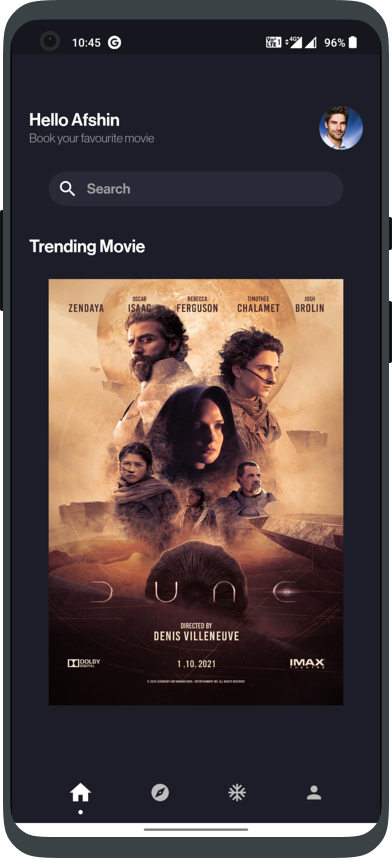
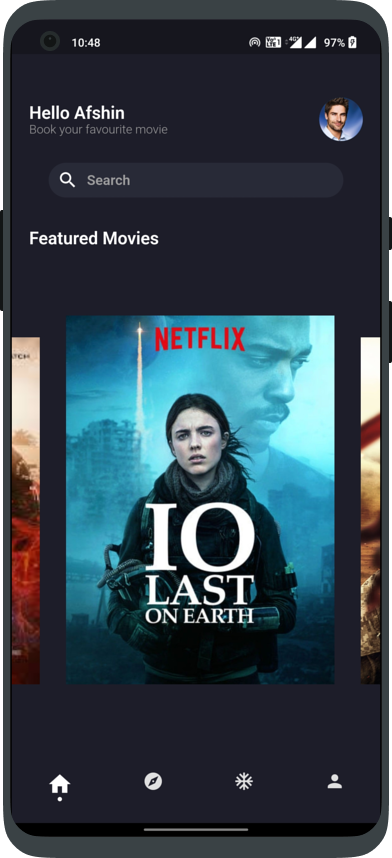
add screenshots

diff --git a/lib/screen/home.dart b/lib/screen/home.dart
@@ -13,104 +13,106 @@ class _HomeState extends State<Home> {
   Widget build(BuildContext context) {
     return Scaffold(
       backgroundColor: const Color(0xFF1C1D28),
-      body: Column(
-        children: [
-          SizedBox(
-            height: MediaQuery.of(context).padding.top + 50,
-          ),
-          Padding(
-            padding: const EdgeInsets.symmetric(horizontal: 20.0),
-            child: Row(
-              children: [
-                Column(
-                  crossAxisAlignment: CrossAxisAlignment.start,
-                  children: const [
-                    Text(
-                      'Hello Afshin',
-                      style: TextStyle(
-                          fontFamily: 'NeueHaasDisplay',
-                          fontSize: 20,
-                          fontWeight: FontWeight.w600,
-                          color: Colors.white),
-                    ),
-                    Text(
-                      'Book your favourite movie',
-                      style: TextStyle(
-                          fontFamily: 'NeueHaasDisplay',
-                          fontSize: 14,
-                          fontWeight: FontWeight.w300,
-                          color: Colors.grey),
-                    )
-                  ],
-                ),
-                const Spacer(),
-                CircleAvatar(
-                  radius: 25,
-                  child: ClipRRect(
-                    borderRadius: BorderRadius.circular(25),
-                    child: Image.network(
-                      'https://dm.henkel-dam.com/is/image/henkel/men_perfect_com_thumbnails_home_pack_400x400-wcms-international?scl=1&fmt=jpg',
-                      fit: BoxFit.fill,
-                    ),
-                  ),
-                )
-              ],
+      body: SingleChildScrollView(
+        child: Column(
+          children: [
+            SizedBox(
+              height: MediaQuery.of(context).padding.top + 50,
             ),
-          ),
-          Padding(
-            padding: const EdgeInsets.symmetric(vertical: 25.0),
-            child: Container(
-              height: 40,
-              width: MediaQuery.of(context).size.width * 0.8,
-              decoration: BoxDecoration(
-                color: const Color(0xFF292A37),
-                borderRadius: BorderRadius.circular(25),
-              ),
+            Padding(
+              padding: const EdgeInsets.symmetric(horizontal: 20.0),
               child: Row(
-                children: const [
-                  Padding(
-                    padding: EdgeInsets.only(left: 10.0),
-                    child: Icon(
-                      Icons.search,
-                      color: Colors.white,
-                    ),
+                children: [
+                  Column(
+                    crossAxisAlignment: CrossAxisAlignment.start,
+                    children: const [
+                      Text(
+                        'Hello Afshin',
+                        style: TextStyle(
+                            fontFamily: 'NeueHaasDisplay',
+                            fontSize: 20,
+                            fontWeight: FontWeight.w600,
+                            color: Colors.white),
+                      ),
+                      Text(
+                        'Book your favourite movie',
+                        style: TextStyle(
+                            fontFamily: 'NeueHaasDisplay',
+                            fontSize: 14,
+                            fontWeight: FontWeight.w300,
+                            color: Colors.grey),
+                      )
+                    ],
                   ),
-                  Padding(
-                    padding: EdgeInsets.all(10.0),
-                    child: Text(
-                      'Search',
-                      style: TextStyle(
-                          fontFamily: 'NeueHaasDisplay',
-                          fontSize: 16,
-                          fontWeight: FontWeight.w600,
-                          color: Colors.grey),
-                      textAlign: TextAlign.left,
+                  const Spacer(),
+                  CircleAvatar(
+                    radius: 25,
+                    child: ClipRRect(
+                      borderRadius: BorderRadius.circular(25),
+                      child: Image.network(
+                        'https://dm.henkel-dam.com/is/image/henkel/men_perfect_com_thumbnails_home_pack_400x400-wcms-international?scl=1&fmt=jpg',
+                        fit: BoxFit.fill,
+                      ),
                     ),
-                  ),
+                  )
                 ],
               ),
             ),
-          ),
-          const Padding(
-            padding: EdgeInsets.symmetric(vertical: 10, horizontal: 20),
-            child: SizedBox(
-              width: double.infinity,
-              child: Text(
-                'Featured Movies',
-                textAlign: TextAlign.left,
-                style: TextStyle(
-                    fontFamily: 'NeueHaasDisplay',
-                    fontSize: 20,
-                    fontWeight: FontWeight.w600,
-                    color: Colors.white),
+            Padding(
+              padding: const EdgeInsets.symmetric(vertical: 25.0),
+              child: Container(
+                height: 40,
+                width: MediaQuery.of(context).size.width * 0.8,
+                decoration: BoxDecoration(
+                  color: const Color(0xFF292A37),
+                  borderRadius: BorderRadius.circular(25),
+                ),
+                child: Row(
+                  children: const [
+                    Padding(
+                      padding: EdgeInsets.only(left: 10.0),
+                      child: Icon(
+                        Icons.search,
+                        color: Colors.white,
+                      ),
+                    ),
+                    Padding(
+                      padding: EdgeInsets.all(10.0),
+                      child: Text(
+                        'Search',
+                        style: TextStyle(
+                            fontFamily: 'NeueHaasDisplay',
+                            fontSize: 16,
+                            fontWeight: FontWeight.w600,
+                            color: Colors.grey),
+                        textAlign: TextAlign.left,
+                      ),
+                    ),
+                  ],
+                ),
               ),
             ),
-          ),
-          SizedBox(
-            height: MediaQuery.of(context).size.height * 0.6,
-            child: const PageViewWidget(),
-          ),
-        ],
+            const Padding(
+              padding: EdgeInsets.symmetric(vertical: 10, horizontal: 20),
+              child: SizedBox(
+                width: double.infinity,
+                child: Text(
+                  'Featured Movies',
+                  textAlign: TextAlign.left,
+                  style: TextStyle(
+                      fontFamily: 'NeueHaasDisplay',
+                      fontSize: 20,
+                      fontWeight: FontWeight.w600,
+                      color: Colors.white),
+                ),
+              ),
+            ),
+            SizedBox(
+              height: MediaQuery.of(context).size.height * 0.6,
+              child: const PageViewWidget(),
+            ),
+          ],
+        ),
       ),
       bottomNavigationBar: SizedBox(
         height: 60,
